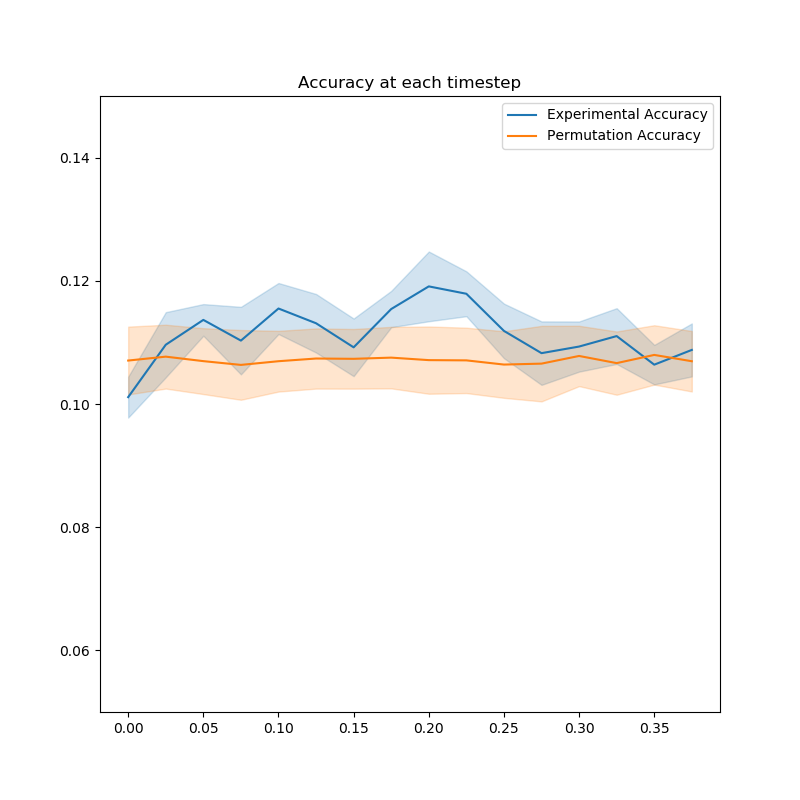
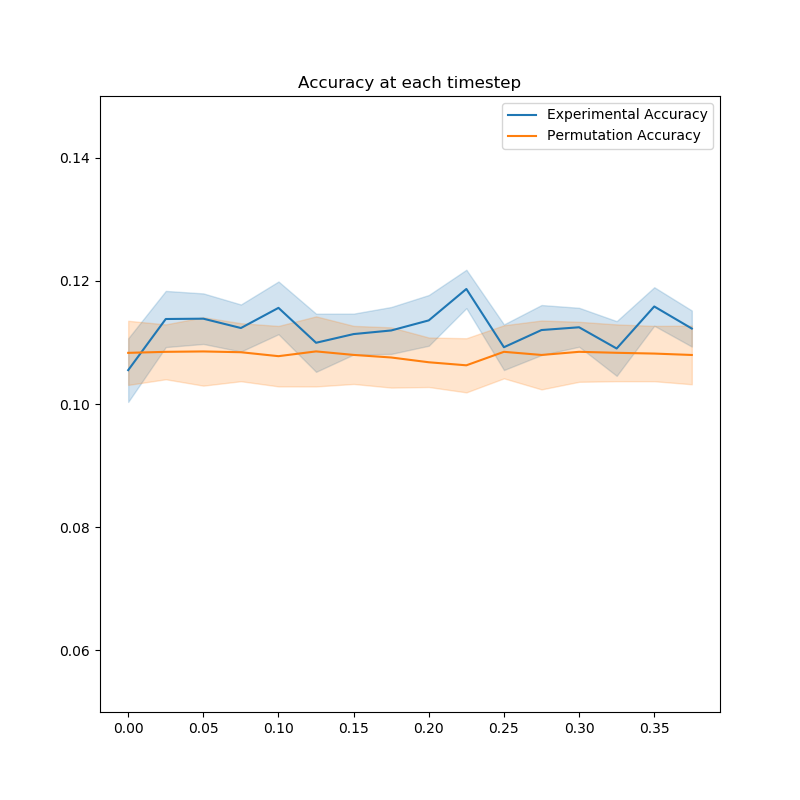
generating figures

Changed region(s): [[0.1562, 0.3125, 0.875, 0.5312]]

diff --git a/code/permutation_test.py b/code/permutation_test.py
@@ -2,7 +2,7 @@ import machine_learning as ml
 import numpy as np
 import matplotlib.pyplot as plt
 import load_data as ld
-from file_lists import ch_picks, meg_subj_lst
+from file_lists import ch_picks, meg_subj_lst, n_subj_trials
 import seaborn as sns
 import pandas as pd
 from scipy.io import loadmat, savemat
@@ -13,7 +13,7 @@ def data_loader(time_shift=0, mode="sklearn", sample_rate=40):
         if subj in saved_data:
             mat_dict = saved_data[subj]
             return mat_dict["X"], mat_dict["y"]
-        X, _, y, _ = ld.load_data(subj, n_train=600, n_test=0, n_classes=n_classes, shuffle=True, data="epochs", 
+        X, _, y, _ = ld.load_data(subj, n_train=n_subj_trials[subj], n_test=0, n_classes=n_classes, shuffle=True, data="epochs", 
                                     mode=mode, ch_picks=ch_picks, time_shift=time_shift, sample_rate=sample_rate)
         saved_data[subj] = {
             "X" : X,
@@ -67,7 +67,7 @@ def make_pd_bar(exp_accs, perm_accs):
 
 def run_subject(subj, load_data, n_classes=9, permutation=False, model_type="logistic_sensor"):
     X, y = load_data(subj, n_classes)
-    repnum = np.zeros(600)
+    repnum = np.zeros(X.shape[0])
     
     n_trials_per_orientation = np.zeros(n_classes)
 
@@ -88,19 +88,19 @@ def run_subject(subj, load_data, n_classes=9, permutation=False, model_type="log
         np.random.shuffle(y)
     model = []
     if model_type == "logistic_sensor":
-        model = ml.LogisticSlidingModel(max_iter=1500, n_classes=n_classes, k=20, C=0.08, l1_ratio=0.95)
+        model = ml.LogisticSlidingModel(max_iter=1500, n_classes=n_classes, k=25, C=0.09, l1_ratio=0.95)
     elif model_type == "logistic_source":
-        model = ml.LogisticSlidingModel(max_iter=4000, n_classes=n_classes, k=400, C=0.05, l1_ratio=0.95)
+        model = ml.LogisticSlidingModel(max_iter=4000, n_classes=n_classes, k=1000, C=0.05, l1_ratio=0.95)
     elif model_type == "svm_sensor":
-        model = ml.SVMSlidingModel(k=20)
+        model = ml.SVMSlidingModel(k=25, C=0.85)
     elif model_type == "cnn_sensor":
         model = ml.CNNSlidingModel(X.shape[1:], n_classes=n_classes)
     elif model_type == "snn_sensor":
-        model = ml.DenseSlidingModel(n_classes=n_classes)
+        model = ml.DenseSlidingModel(n_classes=n_classes, n_epochs=20)
     results = model.cross_validate(X, y)
     return results, length
 
-def run_ptest(load_data, n_classes=9, n_p_tests=100, n_exp_tests=10, sample_rate=40, model_type="logistic_sensor"):
+def run_ptest(load_data, n_classes=9, n_p_tests=500, n_exp_tests=100, sample_rate=40, model_type="logistic_sensor"):
     n_timesteps = int(np.floor(0.4 * sample_rate))
     print(n_timesteps)
     exp_results = np.zeros((n_exp_tests, n_timesteps))
@@ -110,11 +110,11 @@ def run_ptest(load_data, n_classes=9, n_p_tests=100, n_exp_tests=10, sample_rate
         exp_trials = 0
         for subj in meg_subj_lst:
             temp_results, trials = run_subject(subj, load_data, n_classes=n_classes, model_type=model_type)
-            print(temp_results.shape)
             exp_results[i] += temp_results * trials
             exp_trials += trials
         exp_results[i] /= exp_trials
     mean_exp_acc = exp_results.mean(1)
+    print(mean_exp_acc)
 
     perm_results = np.zeros((n_p_tests, n_timesteps))
     significant_permutations = 0
@@ -143,7 +143,7 @@ def run_ptest(load_data, n_classes=9, n_p_tests=100, n_exp_tests=10, sample_rate
     plt.figure(figsize=(8, 8))
     sns.barplot(x='trial', y='accuracy', data=acc_df, ci="sd")
     plt.title("Mean Accuracy, p-value: {:.3f}".format(p_value))
-    plt.savefig("../Figures/final_results/" + model_type + "/accuracy_" + str(n_timesteps) + ".png")
+    plt.savefig("../Figures/final_results/" + model_type + "/accuracy_occipital3" + str(n_timesteps) + ".png")
     plt.clf()
 
     perm_t_accs_x = []
@@ -192,12 +192,16 @@ def run_ptest(load_data, n_classes=9, n_p_tests=100, n_exp_tests=10, sample_rate
     plt.ylabel("Decoding Accuracy")
     plt.xlabel("Time After Stimulus Onset (ms)")
     plt.title("Accuracy at each timestep")
-    plt.savefig("../Figures/final_results/" + model_type + "/timestep_accuracy_" + str(n_timesteps) + ".png")
+    plt.savefig("../Figures/final_results/" + model_type + "/timestep_accuracy_occipital3" + str(n_timesteps) + ".png")
     plt.clf()
 
 def main():
-    load_data = data_loader_source()
-    run_ptest(load_data, n_classes=9, model_type="logistic_source")
+    load_data = data_loader(time_shift=0)
+    run_ptest(load_data, n_classes=9, model_type="logistic_sensor")
+    run_ptest(load_data, n_classes=9, model_type="svm_sensor")
+    
+    #load_data = data_loader_source(time_shift=0)
+    #run_ptest(load_data, n_classes=9, model_type="logistic_source")
 
 if __name__ == "__main__":
     main()

diff --git a/code/machine_learning.py b/code/machine_learning.py
@@ -223,7 +223,7 @@ class DenseSlidingModel(object):
             split_accuracies = []
             for i in range(self.n_timesteps):
                 print("timestep: %d" % i)
-                self.models[i].fit(X_train[:, :, i], y_train, batch_size=5, epochs=self.n_epochs)
+                self.models[i].fit(X_train[:, :, i], y_train, batch_size=25, epochs=self.n_epochs)
                 print(X_train[:, :, i].shape)
                 _, accuracy = self.models[i].evaluate(X_test[:, :, i], y_test)
                 split_accuracies.append(accuracy)
@@ -375,7 +375,7 @@ class SVMSlidingModel(object):
     def __init__(self, k=200, C=1):
         self.clf = Pipeline([('scaler', StandardScaler()), 
                         ('f_classif', SelectKBest(f_classif, k)),
-                        ('linear', LinearModel(LinearSVC(C=C, max_iter=4000)))])
+                        ('linear', LinearModel(LinearSVC(C=C, max_iter=6000)))])
         self.model  = SlidingEstimator(self.clf, scoring="accuracy")
 
     def fit(self, X, y):

diff --git a/code/file_lists.py b/code/file_lists.py
@@ -49,14 +49,14 @@ aligned_dir = {
 meg_subj_lst = [
     "KA",
     "MF",
-    #"MK",
+    "MK",
     "NNo",
     "KO",
     "HHy",
     "HO",
     "AK",
     "HN",
-    #"NN",
+    "NN",
     "JL",
     #"DI",
     "TE",
@@ -157,3 +157,27 @@ ch_picks = [
  'MEG2142',
  'MEG2143',
 ]
+
+n_subj_trials = {
+    "KA": 800,
+    "MF": 600,
+    "MK": 700,
+    "NNo": 800,
+    "KO": 800,
+    "HHy": 800,
+    "HO": 600,
+    "AK": 800,
+    "HN": 800,
+    "NN": 700,
+    "JL": 800,
+    #"DI",
+    "TE": 800,
+    "SoM": 800,
+    "VA": 800,
+    #"RS",
+    "YMi": 800,
+    "YY": 800,
+    "KY": 600,
+    "TOu": 800, 
+    #HY,
+}
